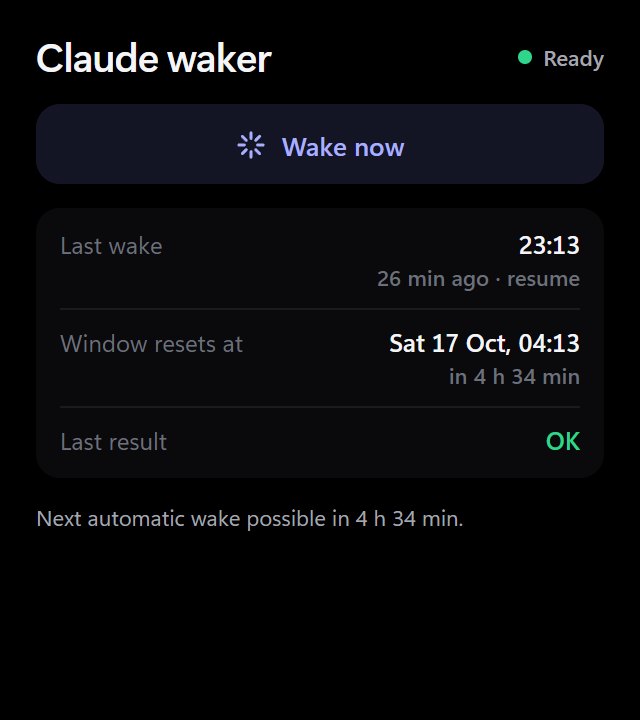
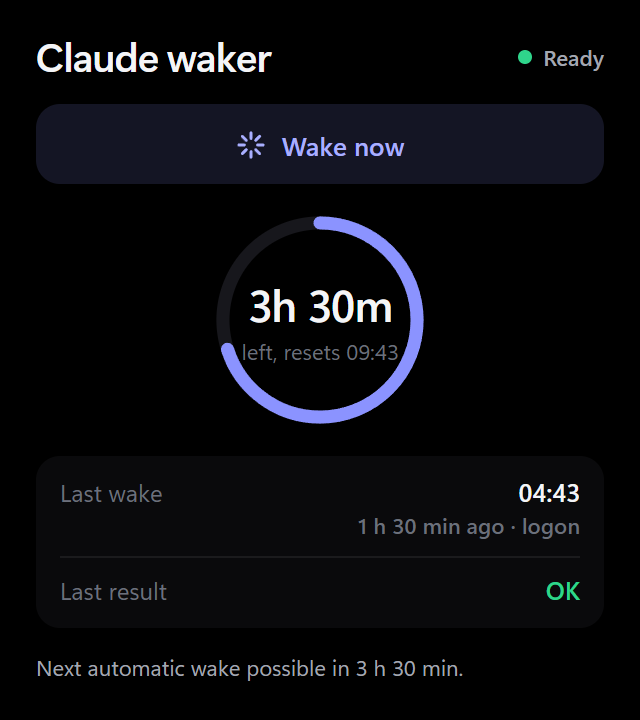
Add Habits widget; Claude waker gets a usage clock view (#75)
Closes #50, closes #51

Claude-Session: https://claude.ai/code/session_019G4hHMgxRtF8p1BAZZjRCq

diff --git a/widgets/habits/habits.js b/widgets/habits/habits.js
@@ -1,0 +1,157 @@
+// Habits: a list of habits with a one-tap check for today and a 52-week dot grid for the selected one.
+// Data (umbra.store "habits"): [{ id, name, icon, target (7 = daily, 1-6 per week), days: ["YYYY-MM-DD", ...] }]
+const $ = (id) => document.getElementById(id);
+const S = window.Streaks;
+const ICONS = ["💧", "📖", "🏃", "🧘", "💪", "🍎", "😴", "✍", "🎸", "🧹", "💊", "🌱"];
+const CHECK = '<svg viewBox="0 0 16 16"><path d="M3 8.5l3.2 3.2L13 4.8"/></svg>';
+const esc = (s) => String(s).replace(/[&<>"']/g, (c) => ({ "&": "&amp;", "<": "&lt;", ">": "&gt;", '"': "&quot;", "'": "&#39;" })[c]);
+
+let habits = [];
+let selected = null;
+let icon = ICONS[0];
+let confirmRm = false;
+let stamp = "";
+
+const dayStart = () => Math.max(0, Math.min(6, Number(umbra.options.dayStart) || 0));
+const today = () => S.today(dayStart());
+const label = (t) => (t >= 7 ? "daily" : `${t}x/week`);
+
+async function save() {
+  try { await umbra.store.set("habits", habits); } catch (e) { console.error("Habits: could not save", e); }
+}
+
+function toggle(h, key) {
+  const i = h.days.indexOf(key);
+  if (i >= 0) h.days.splice(i, 1); else h.days.push(key);
+  h.days.sort();
+  save();
+  render();
+}
+
+function renderList() {
+  const t = today();
+  const list = $("list");
+  list.textContent = "";
+  for (const h of habits) {
+    const done = new Set(h.days);
+    const s = S.streaks(done, h.target, t);
+    const li = document.createElement("li");
+    li.className = "row" + (h.id === selected ? " sel" : "");
+    li.innerHTML = `<span class="ic">${esc(h.icon)}</span><span class="nm">${esc(h.name)}<small>${label(h.target)}</small></span>` +
+      `<span class="st num${s.current ? " hot" : ""}">${s.current} ${s.unit === "days" ? "d" : "w"}</span>` +
+      `<button class="chk${done.has(t) ? " done" : ""}" aria-label="Mark today" aria-pressed="${done.has(t)}">${CHECK}</button>`;
+    li.addEventListener("click", () => { selected = h.id; confirmRm = false; render(); });
+    li.querySelector(".chk").addEventListener("click", (e) => { e.stopPropagation(); selected = h.id; toggle(h, t); });
+    list.appendChild(li);
+  }
+}
+
+function renderDetail() {
+  const h = habits.find((x) => x.id === selected);
+  $("detail").hidden = !h;
+  if (!h) return;
+  const t = today();
+  const done = new Set(h.days);
+  const s = S.streaks(done, h.target, t);
+  const u = s.unit === "days" ? "day" : "week";
+  $("cur").textContent = s.current; $("curl").textContent = `current ${u} streak`;
+  $("best").textContent = s.best; $("bestl").textContent = `best ${u} streak`;
+  $("total").textContent = done.size;
+  $("rm").textContent = confirmRm ? "Really remove?" : "Remove";
+  $("rm").classList.toggle("sure", confirmRm);
+
+  // 52 columns Monday-first; the last column is this week.
+  const first = S.addDays(S.weekStart(t), -51 * 7);
+  const grid = $("grid"), months = $("months");
+  grid.textContent = ""; months.textContent = "";
+  let lastMonth = -1;
+  const marks = [];
+  for (let c = 0; c < 52; c++) {
+    for (let r = 0; r < 7; r++) {
+      const k = S.addDays(first, c * 7 + r);
+      const i = document.createElement("i");
+      if (k > t) i.className = "future";
+      else {
+        if (done.has(k)) i.classList.add("on");
+        if (k === t) i.classList.add("today");
+        i.title = k;
+        i.addEventListener("click", () => toggle(h, k));
+      }
+      grid.appendChild(i);
+    }
+    const m = S.parse(S.addDays(first, c * 7)).getMonth();
+    if (m !== lastMonth && c < 49) marks.push({ c, m });
+    lastMonth = m;
+  }
+  marks.forEach(({ c, m }, i) => {
+    if (i + 1 < marks.length && marks[i + 1].c - c < 3) return; // would overlap the next label
+    const sp = document.createElement("span");
+    sp.style.left = `${(c / 52) * 100}%`;
+    sp.textContent = new Date(2000, m, 1).toLocaleString([], { month: "short" });
+    months.appendChild(sp);
+  });
+}
+
+function render() {
+  $("title").textContent = umbra.options.title || "Habits";
+  if (!habits.some((h) => h.id === selected)) selected = habits.length ? habits[0].id : null;
+  const t = today();
+  const doneToday = habits.filter((h) => h.days.includes(t)).length;
+  $("count").textContent = habits.length ? `${doneToday}/${habits.length} today` : "";
+  $("empty").hidden = habits.length > 0 || !$("form").hidden;
+  renderList();
+  renderDetail();
+  stamp = t;
+}
+
+function buildForm() {
+  const ic = $("icons");
+  for (const i of ICONS) {
+    const b = document.createElement("button");
+    b.type = "button"; b.textContent = i;
+    b.addEventListener("click", () => { icon = i; markIcon(); });
+    ic.appendChild(b);
+  }
+  markIcon();
+  $("target").innerHTML = `<option value="7">Every day</option>` + [6, 5, 4, 3, 2, 1].map((n) => `<option value="${n}">${n}x a week</option>`).join("");
+}
+function markIcon() { [...$("icons").children].forEach((b) => b.classList.toggle("on", b.textContent === icon)); }
+
+function showForm(on) {
+  $("form").hidden = !on;
+  if (on) { umbra.requestFocus(); $("name").focus(); }
+  render();
+}
+
+$("add").addEventListener("click", () => showForm($("form").hidden));
+$("cancel").addEventListener("click", () => { $("name").value = ""; showForm(false); });
+$("form").addEventListener("submit", (e) => {
+  e.preventDefault();
+  const name = $("name").value.trim();
+  if (!name) return;
+  const h = { id: Date.now().toString(36) + Math.random().toString(36).slice(2, 5), name, icon, target: Number($("target").value) || 7, days: [] };
+  habits.push(h);
+  selected = h.id;
+  $("name").value = "";
+  save();
+  showForm(false);
+});
+$("rm").addEventListener("click", () => {
+  if (!confirmRm) { confirmRm = true; renderDetail(); return; }
+  habits = habits.filter((h) => h.id !== selected);
+  confirmRm = false; selected = null;
+  save(); render();
+});
+
+umbra.onSettings(render);
+umbra.store.onChange(async () => { habits = await umbra.store.get("habits", []); render(); });
+// Roll over to the new day without a restart.
+setInterval(() => { if (today() !== stamp) render(); }, 30e3);
+
+(async () => {
+  await umbra.ready;
+  buildForm();
+  habits = await umbra.store.get("habits", []);
+  render();
+  umbra.rendered();
+})();

diff --git a/widgets/habits/habits.css b/widgets/habits/habits.css
@@ -1,0 +1,57 @@
+html, body { height: 100%; overflow: hidden; }
+.hb { height: 100%; display: flex; flex-direction: column; padding: 16px 16px 12px; gap: 10px; }
+
+.head { display: flex; align-items: center; gap: 10px; }
+.title { margin: 0; flex: 1; min-width: 0; font-family: var(--font-display); font-size: 22px; font-weight: 600; letter-spacing: -0.02em; white-space: nowrap; overflow: hidden; text-overflow: ellipsis; }
+.count { font-size: 12px; color: var(--text-2); }
+.add { width: 28px; height: 28px; border: 0; border-radius: 50%; font: inherit; font-size: 18px; line-height: 1; color: var(--accent-strong); background: var(--accent-soft); cursor: pointer; }
+.add:hover { box-shadow: inset 0 0 0 1px var(--accent); }
+
+.form { display: flex; flex-direction: column; gap: 8px; padding: 10px; background: var(--surface-1); border-radius: var(--radius-m); }
+.form[hidden], .detail[hidden], .empty[hidden] { display: none; }
+.icons { display: flex; flex-wrap: wrap; gap: 4px; }
+.icons button { width: 28px; height: 28px; border: 1px solid transparent; border-radius: var(--radius-s); background: var(--surface-2); font-size: 15px; cursor: pointer; }
+.icons button.on { border-color: var(--accent); background: var(--accent-soft); }
+.frow { display: flex; gap: 8px; }
+.frow.end { justify-content: flex-end; }
+input, select { flex: 1; min-width: 0; height: 30px; padding: 0 8px; font: inherit; font-size: 13px; color: var(--text); background: var(--surface-2); border: 1px solid var(--line); border-radius: var(--radius-s); }
+select { flex: none; width: 118px; }
+input:focus, select:focus { outline: none; border-color: var(--accent); }
+.btn { height: 28px; padding: 0 12px; font: inherit; font-size: 12px; font-weight: 600; color: var(--text-2); background: var(--surface-2); border: 0; border-radius: var(--radius-s); cursor: pointer; }
+.btn.primary { color: var(--accent-strong); background: var(--accent-soft); }
+
+.list { margin: 0; padding: 0; list-style: none; flex: 1; min-height: 0; overflow-y: auto; display: flex; flex-direction: column; gap: 2px; }
+.list::-webkit-scrollbar { width: 6px; }
+.list::-webkit-scrollbar-button { display: none; }
+.list::-webkit-scrollbar-thumb { background: rgba(255, 255, 255, 0.1); border-radius: 3px; }
+.row { flex: none; display: flex; align-items: center; gap: 10px; height: 38px; padding: 0 6px 0 8px; border-radius: var(--radius-m); cursor: pointer; }
+.row:hover { background: var(--surface-1); }
+.row.sel { background: var(--surface-2); }
+.row .ic { font-size: 16px; width: 22px; text-align: center; }
+.row .nm { flex: 1; min-width: 0; font-size: 13.5px; font-weight: 500; white-space: nowrap; overflow: hidden; text-overflow: ellipsis; }
+.row .nm small { margin-left: 6px; font-size: 11px; font-weight: 500; color: var(--text-3); }
+.row .st { font-size: 12px; font-weight: 600; color: var(--text-2); }
+.row .st.hot { color: var(--accent-strong); }
+.chk { flex: none; width: 26px; height: 26px; border-radius: 50%; border: 1.5px solid var(--text-3); background: transparent; color: #000; cursor: pointer; display: grid; place-items: center; padding: 0; }
+.chk:hover { border-color: var(--accent); }
+.chk.done { background: var(--accent); border-color: var(--accent); }
+.chk svg { width: 13px; height: 13px; fill: none; stroke: currentColor; stroke-width: 2.4; stroke-linecap: round; stroke-linejoin: round; opacity: 0; }
+.chk.done svg { opacity: 1; }
+
+.detail { flex: none; padding-top: 10px; border-top: 1px solid var(--line); }
+.stats { display: flex; align-items: flex-end; gap: 18px; }
+.stats div { display: flex; flex-direction: column; }
+.stats b { font-size: 20px; font-weight: 600; line-height: 1.1; }
+.stats span { font-size: 11px; color: var(--text-3); }
+.rm { margin-left: auto; font: inherit; font-size: 11px; color: var(--text-3); background: none; border: 0; cursor: pointer; padding: 4px 0; }
+.rm:hover, .rm.sure { color: var(--down); }
+
+.grid { margin-top: 10px; display: grid; grid-template-columns: repeat(52, 1fr); grid-template-rows: repeat(7, auto); grid-auto-flow: column; gap: 1.5px; }
+.grid i { display: block; aspect-ratio: 1; border-radius: 1.5px; background: var(--surface-3); cursor: pointer; }
+.grid i.on { background: var(--accent); }
+.grid i.today { box-shadow: 0 0 0 1px var(--text-2); }
+.grid i.future { visibility: hidden; }
+.months { position: relative; height: 14px; margin-top: 3px; font-size: 11px; color: var(--text-3); }
+.months span { position: absolute; top: 0; }
+
+.empty { margin: auto; text-align: center; font-size: 13px; line-height: 1.5; color: var(--text-3); }

diff --git a/widgets/habits/streaks.js b/widgets/habits/streaks.js
@@ -1,0 +1,43 @@
+// Pure date and streak helpers (no DOM), shared by habits.js and testable in node.
+(function (root) {
+  const pad = (n) => String(n).padStart(2, "0");
+  const keyOf = (d) => `${d.getFullYear()}-${pad(d.getMonth() + 1)}-${pad(d.getDate())}`;
+  const parse = (k) => { const [y, m, d] = k.split("-").map(Number); return new Date(y, m - 1, d); };
+  const addDays = (k, n) => { const d = parse(k); d.setDate(d.getDate() + n); return keyOf(d); };
+  /** Today's key; with dayStart = 4, 01:30 still belongs to the day before. */
+  const today = (dayStart = 0, now = new Date()) => keyOf(new Date(now.getTime() - dayStart * 3600000));
+  /** Monday of the week containing key. */
+  const weekStart = (k) => { const d = parse(k); return addDays(k, -((d.getDay() + 6) % 7)); };
+
+  /** target: 7 = every day, 1-6 = that many days a week. done: Set of day keys. */
+  function streaks(done, target, todayKey) {
+    if (target >= 7) {
+      let best = 0, run = 0;
+      const days = [...done].sort();
+      for (let i = 0; i < days.length; i++) {
+        run = i > 0 && addDays(days[i - 1], 1) === days[i] ? run + 1 : 1;
+        if (run > best) best = run;
+      }
+      let cur = 0, k = done.has(todayKey) ? todayKey : addDays(todayKey, -1);
+      while (done.has(k)) { cur++; k = addDays(k, -1); }
+      return { current: cur, best, unit: "days" };
+    }
+    // Weekly: a week counts when it holds >= target days. The running week never breaks a streak.
+    const perWeek = new Map();
+    for (const k of done) { const w = weekStart(k); perWeek.set(w, (perWeek.get(w) || 0) + 1); }
+    const met = (w) => (perWeek.get(w) || 0) >= target;
+    const weeks = [...perWeek.keys()].filter(met).sort();
+    let best = 0, run = 0;
+    for (let i = 0; i < weeks.length; i++) {
+      run = i > 0 && addDays(weeks[i - 1], 7) === weeks[i] ? run + 1 : 1;
+      if (run > best) best = run;
+    }
+    const thisWeek = weekStart(todayKey);
+    let w = met(thisWeek) ? thisWeek : addDays(thisWeek, -7), cur = 0;
+    while (met(w)) { cur++; w = addDays(w, -7); }
+    return { current: cur, best, unit: "weeks" };
+  }
+
+  const api = { keyOf, parse, addDays, today, weekStart, streaks };
+  if (typeof module !== "undefined") module.exports = api; else root.Streaks = api;
+})(typeof window !== "undefined" ? window : globalThis);

diff --git a/widgets/habits/index.html b/widgets/habits/index.html
@@ -1,0 +1,41 @@
+<!doctype html>
+<html lang="en">
+<head>
+  <meta charset="utf-8">
+  <title>Habits</title>
+  <link rel="stylesheet" href="https://umbra.local/shared/umbra.css">
+  <link rel="stylesheet" href="habits.css">
+</head>
+<body>
+  <main class="hb" id="app">
+    <header class="head">
+      <h1 class="title" id="title">Habits</h1>
+      <span class="count num" id="count"></span>
+      <button class="add" id="add" data-no-drag aria-label="Add habit">+</button>
+    </header>
+    <form class="form" id="form" data-no-drag hidden>
+      <div class="icons" id="icons"></div>
+      <div class="frow">
+        <input id="name" type="text" maxlength="40" placeholder="New habit" autocomplete="off">
+        <select id="target" aria-label="Target"></select>
+      </div>
+      <div class="frow end"><button type="button" class="btn" id="cancel">Cancel</button><button type="submit" class="btn primary">Add</button></div>
+    </form>
+    <ul class="list" id="list" data-no-drag></ul>
+    <section class="detail" id="detail" hidden>
+      <div class="stats">
+        <div><b class="num" id="cur">0</b><span id="curl">current</span></div>
+        <div><b class="num" id="best">0</b><span id="bestl">best</span></div>
+        <div><b class="num" id="total">0</b><span>total days</span></div>
+        <button class="rm" id="rm" data-no-drag>Remove</button>
+      </div>
+      <div class="grid" id="grid" data-no-drag aria-label="Last 52 weeks"></div>
+      <div class="months" id="months"></div>
+    </section>
+    <p class="empty" id="empty" hidden>No habits yet.<br>Press + to add one.</p>
+  </main>
+  <script src="https://umbra.local/shared/umbra.js"></script>
+  <script src="streaks.js"></script>
+  <script src="habits.js"></script>
+</body>
+</html>

diff --git a/widgets/claude-waker/waker.css b/widgets/claude-waker/waker.css
@@ -50,3 +50,16 @@ dd small { display: block; font-size: 11px; font-weight: 500; color: var(--text-
 .note { margin: 0; font-size: 11px; line-height: 1.4; color: var(--text-2); min-height: 30px; }
 .note.warn { color: var(--accent-strong); }
 .note.err { color: var(--down); }
+
+/* ---------- usage clock view ---------- */
+.clock[hidden] { display: none; }
+.clock { position: relative; flex: none; width: 112px; height: 112px; margin: 0 auto; }
+.clock svg { width: 100%; height: 100%; transform: rotate(-90deg); }
+.clock .track { fill: none; stroke: var(--surface-3); stroke-width: 7; }
+.clock .arc { fill: none; stroke: var(--accent); stroke-width: 7; stroke-linecap: round; stroke-dasharray: 326.7; stroke-dashoffset: 326.7; }
+.clock .arc.off { stroke: var(--flat); }
+html[data-motion="on"] .clock .arc { transition: stroke-dashoffset 600ms var(--ease-out); }
+.clock .center { position: absolute; inset: 0; display: flex; flex-direction: column; align-items: center; justify-content: center; text-align: center; }
+.clock .left { font-size: 22px; font-weight: 600; letter-spacing: -0.02em; }
+.clock .sub { margin-top: 2px; max-width: 90px; font-size: 11px; line-height: 1.25; color: var(--text-3); }
+.w.clockview .rows .row:nth-child(2) { display: none; }

diff --git a/widgets/claude-waker/waker.js b/widgets/claude-waker/waker.js
@@ -150,6 +150,16 @@ function render() {
   else if (state.ok === false) { badge.className = "badge err"; badge.textContent = "Needs attention"; }
   else { badge.className = "badge"; badge.textContent = "Not run yet"; }
 
+  // Usage clock: the ring shows the share of the 5-hour window that is left.
+  const clockView = opts().view === "clock";
+  $("clock").hidden = !clockView;
+  $("app").classList.toggle("clockview", clockView);
+  const end = state.lastOk + WINDOW, active = state.lastOk && end > now;
+  $("arc").style.strokeDashoffset = String(326.7 * (active ? 1 - (end - now) / WINDOW : 1));
+  $("arc").classList.toggle("off", !active);
+  $("left").textContent = active ? span(end - now).replace(" min", "m").replace(" h ", "h ") : "-";
+  $("leftsub").textContent = active ? "left, resets " + fmtT.format(end) : state.lastOk ? "window ended" : "No window yet";
+
   $("wake").disabled = running;
   $("wake-label").textContent = running ? "Waking Claude..." : "Wake now";
 

diff --git a/widgets/claude-waker/index.html b/widgets/claude-waker/index.html
@@ -18,7 +18,18 @@
       <span id="wake-label">Wake now</span>
     </button>
 
-    <dl class="rows">
+    <section class="clock" id="clock" hidden>
+      <svg viewBox="0 0 120 120" aria-hidden="true">
+        <circle class="track" cx="60" cy="60" r="52"/>
+        <circle class="arc" id="arc" cx="60" cy="60" r="52"/>
+      </svg>
+      <div class="center">
+        <div class="left num" id="left">-</div>
+        <div class="sub" id="leftsub">No window yet</div>
+      </div>
+    </section>
+
+    <dl class="rows" id="rows">
       <div class="row"><dt>Last wake</dt><dd id="last"><span class="num">-</span></dd></div>
       <div class="row"><dt>Window resets at</dt><dd id="reset"><span class="num">-</span></dd></div>
       <div class="row"><dt>Last result</dt><dd id="result">-</dd></div>
